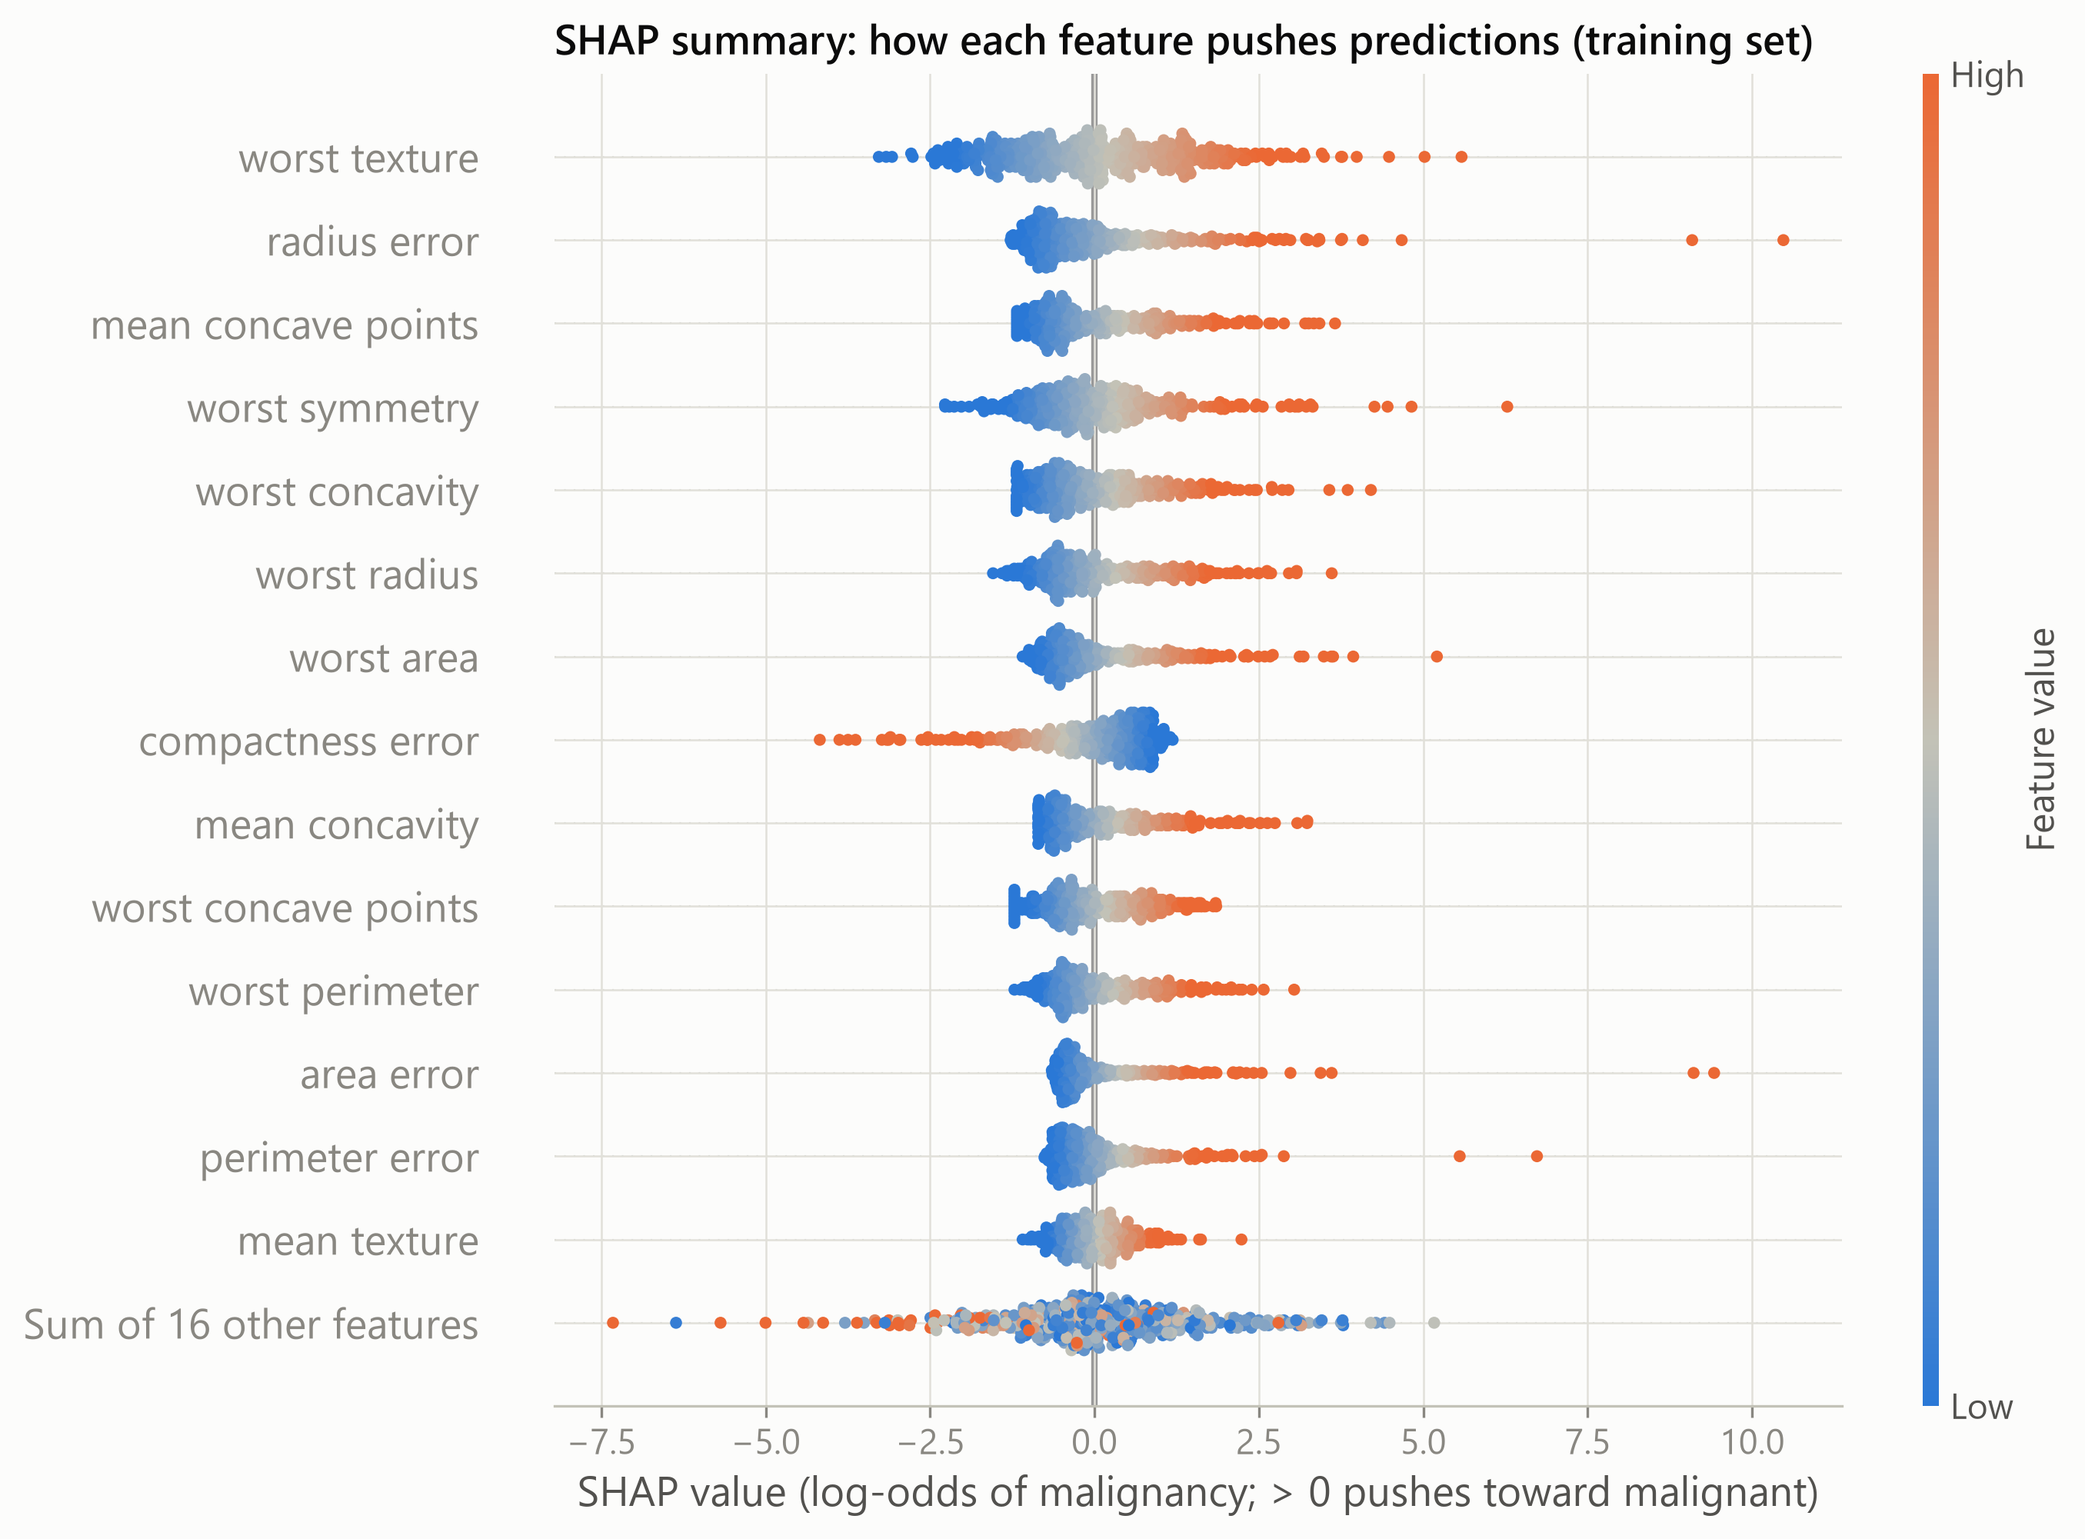
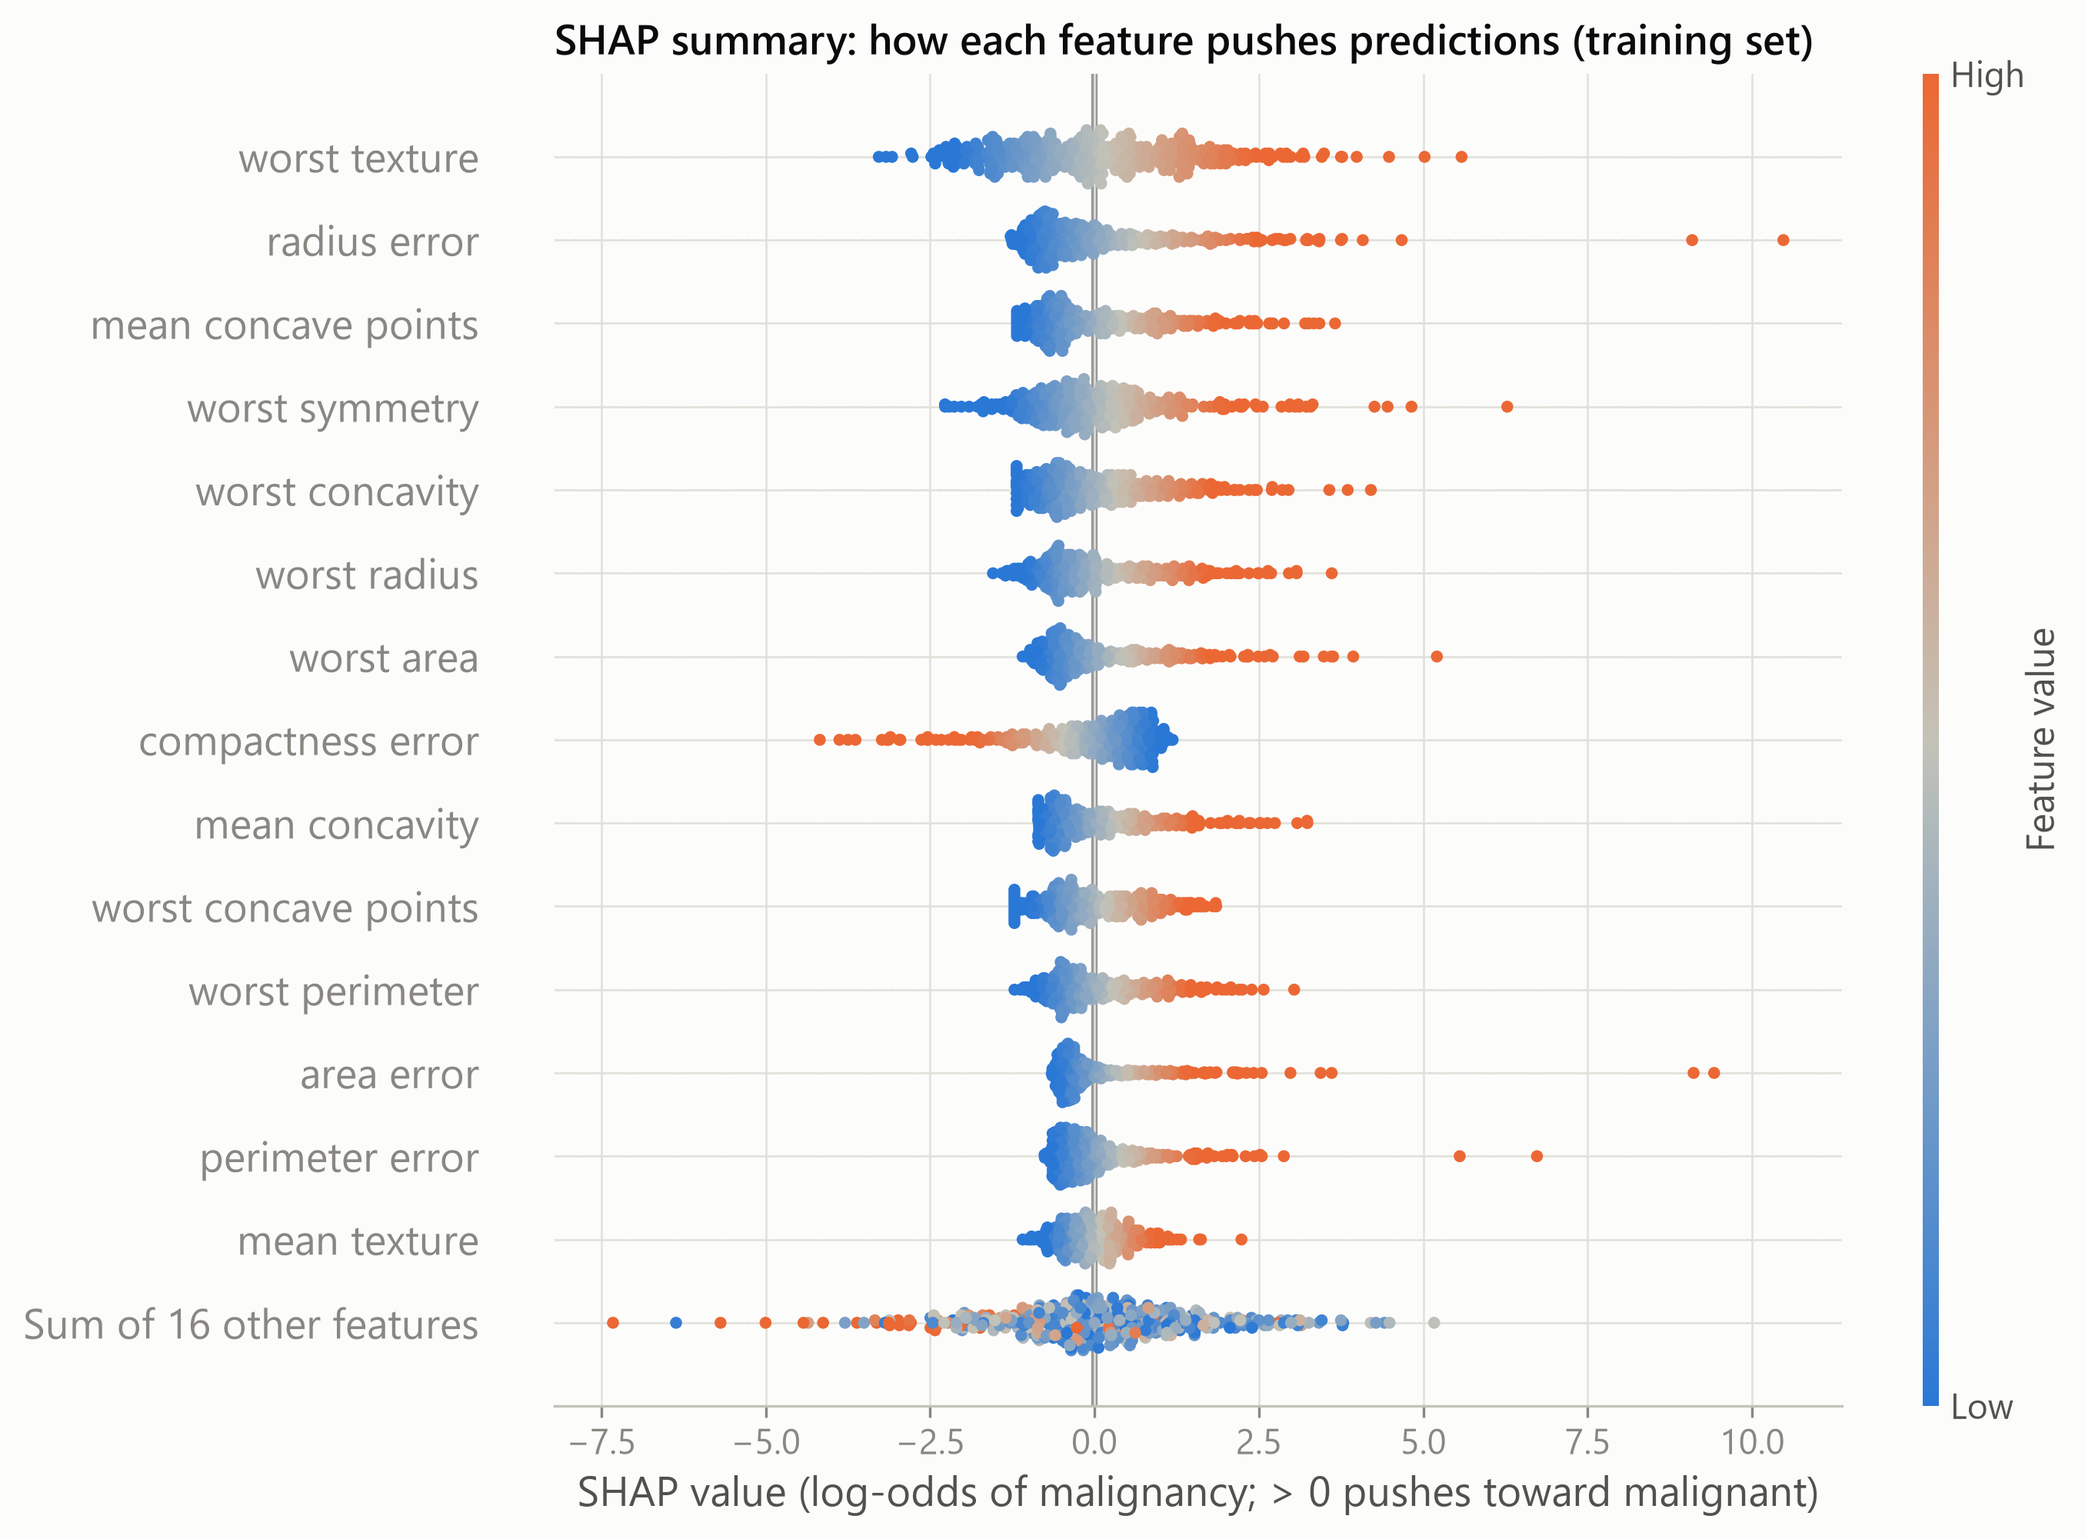
Phase 6: pytest suite (37 tests), run_all.py with --clean/--tests, deterministic figures

Changed region(s): [[0.4338, 0.8366, 0.6507, 0.8986]]

diff --git a/run_all.py b/run_all.py
@@ -1,0 +1,68 @@
+"""Reproduce every result, figure, and model in this project from scratch.
+
+Usage:
+    python run_all.py            # re-run all steps (reuses the cached data CSVs)
+    python run_all.py --clean    # delete generated data/results/figures/models first
+    python run_all.py --tests    # also run the pytest suite at the end
+"""
+
+from __future__ import annotations
+
+import argparse
+import runpy
+import shutil
+import subprocess
+import sys
+import time
+from pathlib import Path
+
+ROOT = Path(__file__).resolve().parent
+sys.path.insert(0, str(ROOT / "src"))  # lets run_all.py work even before `pip install -e .`
+
+from oncolens import config  # noqa: E402
+
+STEPS: list[tuple[str, str]] = [
+    ("01_data.py", "Load, validate, split data; EDA figures"),
+    ("02_baseline.py", "Logistic regression baseline"),
+    ("03_model_selection.py", "Model comparison, nested CV, tuning"),
+    ("04_calibration_threshold.py", "Calibration check and threshold selection"),
+    ("05_final_test.py", "One-time held-out test evaluation"),
+    ("06_explain_errors.py", "SHAP explanations and error analysis"),
+    ("07_figures.py", "Evaluation, SHAP and error figures"),
+]
+
+
+def clean_outputs() -> None:
+    """Remove everything the pipeline generates (never touches code, docs, or captions)."""
+    for pattern_dir, pattern in ((config.DATA_DIR, "*.csv"), (config.RESULTS_DIR, "*.*"),
+                                 (config.FIGURES_DIR, "*.png")):
+        for path in pattern_dir.glob(pattern):
+            path.unlink()
+    shutil.rmtree(config.MODELS_DIR, ignore_errors=True)
+
+
+def main() -> None:
+    """Run each pipeline step in order and report timings."""
+    parser = argparse.ArgumentParser(description=__doc__, formatter_class=argparse.RawDescriptionHelpFormatter)
+    parser.add_argument("--clean", action="store_true", help="delete generated outputs first")
+    parser.add_argument("--tests", action="store_true", help="run pytest after the pipeline")
+    args = parser.parse_args()
+
+    if args.clean:
+        clean_outputs()
+        print("Cleaned data/, results/, figures/*.png and models/.")
+    config.ensure_dirs()
+    total = time.time()
+    for script, description in STEPS:
+        start = time.time()
+        print(f"\n=== {script}: {description} ===", flush=True)
+        runpy.run_path(str(ROOT / "scripts" / script), run_name="__main__")
+        print(f"--- done in {time.time() - start:.1f}s", flush=True)
+    print(f"\nPipeline finished in {time.time() - total:.0f}s. Results in results/, figures in figures/.")
+
+    if args.tests:
+        sys.exit(subprocess.call([sys.executable, "-m", "pytest", "-q"], cwd=ROOT))
+
+
+if __name__ == "__main__":
+    main()

diff --git a/tests/test_explain_errors.py b/tests/test_explain_errors.py
@@ -1,0 +1,60 @@
+"""Tests for SHAP explanations and error-analysis helpers."""
+
+from __future__ import annotations
+
+import numpy as np
+import pandas as pd
+import pytest
+
+from oncolens.errors import label_outcomes, misclassified_table, relative_position
+from oncolens.explain import build_explainer, explain_rows, global_importance, sigmoid, top_contributions
+from oncolens.models import make_pipeline
+
+
+@pytest.fixture(scope="module")
+def fitted_lr(train_xy):
+    X, y = train_xy
+    return make_pipeline("logistic_regression").fit(X, y)
+
+
+def test_shap_values_add_up_to_model_probability(fitted_lr, train_xy) -> None:
+    X, _ = train_xy
+    expl = explain_rows(build_explainer(fitted_lr, X), X.head(20))
+    reconstructed = sigmoid(expl.values.sum(axis=1) + expl.base_values)
+    np.testing.assert_allclose(reconstructed, fitted_lr.predict_proba(X.head(20))[:, 1], atol=1e-8)
+
+
+def test_explanation_reports_raw_feature_values(fitted_lr, train_xy) -> None:
+    X, _ = train_xy
+    expl = explain_rows(build_explainer(fitted_lr, X), X.head(3))
+    np.testing.assert_allclose(expl.data, X.head(3).to_numpy())
+
+
+def test_global_importance_sorted_and_complete(fitted_lr, train_xy) -> None:
+    X, _ = train_xy
+    imp = global_importance(explain_rows(build_explainer(fitted_lr, X), X.head(50)))
+    assert len(imp) == X.shape[1]
+    assert imp["mean_abs_shap"].is_monotonic_decreasing
+
+
+def test_top_contributions_largest_first(fitted_lr, train_xy) -> None:
+    X, _ = train_xy
+    top = top_contributions(explain_rows(build_explainer(fitted_lr, X), X.head(1)), row=0, k=4)
+    assert len(top) == 4 and top["shap"].abs().is_monotonic_decreasing
+
+
+def test_label_outcomes() -> None:
+    out = label_outcomes(np.array([1, 1, 0, 0]), np.array([0.9, 0.1, 0.9, 0.1]), 0.5)
+    assert out.tolist() == ["TP", "FN", "FP", "TN"]
+
+
+def test_misclassified_table_keeps_only_errors() -> None:
+    X = pd.DataFrame({"a": [1.0, 2.0, 3.0, 4.0]})
+    table = misclassified_table(X, pd.Series([1, 1, 0, 0]), np.array([0.9, 0.1, 0.9, 0.1]), 0.5, "t")
+    assert sorted(table["outcome"]) == ["FN", "FP"]
+
+
+def test_relative_position_scale() -> None:
+    profile = pd.DataFrame({"TN": [0.0], "FP": [2.5], "FN": [7.5], "TP": [10.0]}, index=["f"])
+    pos = relative_position(profile)
+    assert pos.loc["f", "FP"] == pytest.approx(0.25) and pos.loc["f", "FN"] == pytest.approx(0.75)

diff --git a/tests/test_metrics_threshold_calibration.py b/tests/test_metrics_threshold_calibration.py
@@ -1,0 +1,56 @@
+"""Tests for metrics, threshold selection, and calibration helpers."""
+
+from __future__ import annotations
+
+import numpy as np
+import pandas as pd
+import pytest
+
+from oncolens.calibration import calibration_summary, expected_calibration_error
+from oncolens.metrics import classification_metrics, summarize_cv
+from oncolens.threshold import choose_threshold, threshold_sweep
+
+Y = np.array([0, 0, 0, 1, 1, 1])
+P = np.array([0.1, 0.3, 0.6, 0.4, 0.8, 0.9])
+
+
+def test_classification_metrics_counts_and_rates() -> None:
+    m = classification_metrics(Y, P, threshold=0.5)
+    assert (m["tp"], m["fp"], m["tn"], m["fn"]) == (2, 1, 2, 1)
+    assert m["recall"] == pytest.approx(2 / 3)
+    assert m["specificity"] == pytest.approx(2 / 3)
+
+
+def test_lower_threshold_never_lowers_recall() -> None:
+    assert classification_metrics(Y, P, 0.35)["recall"] >= classification_metrics(Y, P, 0.5)["recall"]
+
+
+def test_summarize_cv_flips_negated_brier() -> None:
+    fake = {f"test_{m}": np.array([0.9, 1.0]) for m in
+            ("accuracy", "precision", "recall", "f1", "roc_auc", "average_precision")}
+    fake["test_brier"] = np.array([-0.02, -0.04])
+    assert summarize_cv(fake)["brier_mean"] == pytest.approx(0.03)
+
+
+def test_choose_threshold_picks_highest_meeting_target() -> None:
+    sweep = threshold_sweep(Y, P, grid=np.array([0.2, 0.35, 0.5, 0.7]))
+    # recall is 1.0 at 0.2 and 0.35 but 2/3 at 0.5, so the highest threshold meeting 1.0 is 0.35
+    assert choose_threshold(sweep, target_recall=1.0) == 0.35
+
+
+def test_choose_threshold_falls_back_to_lowest() -> None:
+    sweep = pd.DataFrame({"threshold": [0.3, 0.6], "recall": [0.5, 0.4]})
+    assert choose_threshold(sweep, target_recall=0.99) == 0.3
+
+
+def test_ece_zero_when_frequencies_match() -> None:
+    y = np.array([0, 1, 0, 1])
+    p = np.full(4, 0.5)
+    assert expected_calibration_error(y, p) == pytest.approx(0.0)
+
+
+def test_ece_large_when_confidently_wrong() -> None:
+    y = np.array([0, 0, 1, 1])
+    p = np.array([0.95, 0.95, 0.05, 0.05])
+    assert expected_calibration_error(y, p) > 0.9
+    assert calibration_summary(y, p)["brier"] > 0.8

diff --git a/tests/test_data.py b/tests/test_data.py
@@ -1,0 +1,54 @@
+"""Tests for loading, validating, and splitting the data."""
+
+from __future__ import annotations
+
+import numpy as np
+import pandas as pd
+
+from oncolens import config
+from oncolens.data import (
+    feature_columns,
+    load_splits,
+    make_train_test_split,
+    summary_table,
+    validate_dataframe,
+)
+
+
+def test_target_is_flipped_so_malignant_is_one(raw_df: pd.DataFrame) -> None:
+    assert raw_df.shape == (569, 31)
+    assert int(raw_df[config.TARGET_COL].sum()) == 212  # 212 malignant in the original dataset
+
+
+def test_clean_data_passes_validation(raw_df: pd.DataFrame) -> None:
+    assert validate_dataframe(raw_df) == []
+
+
+def test_validation_catches_missing_and_negative_values(raw_df: pd.DataFrame) -> None:
+    broken = raw_df.copy()
+    broken.iloc[0, 0] = np.nan
+    broken.iloc[1, 1] = -5.0
+    problems = " ".join(validate_dataframe(broken))
+    assert "missing" in problems and "negative" in problems
+
+
+def test_split_is_disjoint_stratified_and_reproducible(raw_df: pd.DataFrame) -> None:
+    train, test = make_train_test_split(raw_df)
+    assert len(train) + len(test) == len(raw_df)
+    assert len(pd.merge(train, test, how="inner")) == 0  # no row appears in both
+    assert abs(train[config.TARGET_COL].mean() - test[config.TARGET_COL].mean()) < 0.01
+    train_again, _ = make_train_test_split(raw_df)
+    pd.testing.assert_frame_equal(train, train_again)
+
+
+def test_cached_split_matches_fresh_split(raw_df: pd.DataFrame) -> None:
+    cached_train, cached_test = load_splits()
+    fresh_train, fresh_test = make_train_test_split(raw_df)
+    np.testing.assert_allclose(cached_train.to_numpy(), fresh_train.to_numpy())
+    np.testing.assert_allclose(cached_test.to_numpy(), fresh_test.to_numpy())
+
+
+def test_summary_table_has_one_row_per_feature(raw_df: pd.DataFrame) -> None:
+    table = summary_table(raw_df)
+    assert list(table.index) == feature_columns(raw_df)
+    assert {"mean_benign", "mean_malignant", "malignant_to_benign_ratio"} <= set(table.columns)

diff --git a/tests/test_app.py b/tests/test_app.py
@@ -1,0 +1,63 @@
+"""Tests for the app helpers and a headless run of the Streamlit app."""
+
+from __future__ import annotations
+
+from pathlib import Path
+
+import pandas as pd
+import pytest
+
+from oncolens.app_support import (
+    Prediction,
+    feature_group,
+    format_probability,
+    load_or_train_model,
+    predict,
+    presets,
+    slider_ranges,
+)
+
+APP = Path(__file__).resolve().parents[1] / "app.py"
+
+
+def test_prediction_label_and_confidence() -> None:
+    assert Prediction(0.3, threshold=0.2).label == "Malignant"
+    assert Prediction(0.1, threshold=0.2).confidence == pytest.approx(0.9)
+
+
+def test_format_probability_never_claims_certainty() -> None:
+    assert format_probability(0.99999) == "> 99.9%"
+    assert format_probability(0.00001) == "< 0.1%"
+    assert format_probability(0.5) == "50.0%"
+
+
+def test_feature_groups() -> None:
+    assert feature_group("mean radius") == "mean"
+    assert feature_group("worst area") == "worst"
+    assert feature_group("radius error") == "error"
+
+
+def test_presets_lie_within_slider_ranges(train_xy) -> None:
+    X, y = train_xy
+    ranges = slider_ranges(X)
+    for values in presets(X, y).values():
+        assert ((values >= ranges["min"]) & (values <= ranges["max"])).all()
+
+
+def test_typical_malignant_preset_is_predicted_malignant(train_xy) -> None:
+    X, y = train_xy
+    model = load_or_train_model()
+    row = pd.DataFrame([presets(X, y)["Typical malignant (median of malignant)"]])
+    assert predict(model, row, threshold=0.2).is_malignant
+
+
+def test_app_runs_without_exceptions() -> None:
+    from streamlit.testing.v1 import AppTest
+
+    at = AppTest.from_file(str(APP), default_timeout=180).run()
+    assert not at.exception
+    assert len(at.slider) == 30
+    assert at.metric[0].value in ("Benign", "Malignant")
+    texture = at.slider(key="worst texture")
+    texture.set_value(float(texture.max)).run()
+    assert not at.exception

diff --git a/tests/test_models_selection.py b/tests/test_models_selection.py
@@ -1,0 +1,44 @@
+"""Tests for pipelines, grids, and the model-selection rule."""
+
+from __future__ import annotations
+
+import pandas as pd
+import pytest
+from sklearn.preprocessing import StandardScaler
+
+from oncolens.models import MODEL_NAMES, make_pipeline, param_grid
+from oncolens.selection import SIMPLICITY_MARGIN, choose_model
+
+
+@pytest.mark.parametrize("name", MODEL_NAMES)
+def test_every_pipeline_scales_inside_the_pipeline(name: str) -> None:
+    pipe = make_pipeline(name)
+    assert isinstance(pipe.steps[0][1], StandardScaler)  # so the scaler is re-fit in each CV fold
+
+
+@pytest.mark.parametrize("name", MODEL_NAMES)
+def test_grid_keys_are_valid_pipeline_params(name: str) -> None:
+    pipe = make_pipeline(name)
+    first_values = {key: values[0] for key, values in param_grid(name).items()}
+    pipe.set_params(**first_values)  # raises ValueError on an invalid key
+
+
+def test_unknown_model_raises() -> None:
+    with pytest.raises(ValueError):
+        make_pipeline("deep_magic")
+
+
+def _nested(scores: dict[str, float]) -> pd.DataFrame:
+    return pd.DataFrame({"roc_auc_mean": scores})
+
+
+def test_choose_model_prefers_lr_within_margin() -> None:
+    chosen, _ = choose_model(_nested({"logistic_regression": 0.990, "svm": 0.990 + SIMPLICITY_MARGIN / 2,
+                                      "random_forest": 0.98, "gradient_boosting": 0.98}))
+    assert chosen == "logistic_regression"
+
+
+def test_choose_model_takes_clear_winner() -> None:
+    chosen, _ = choose_model(_nested({"logistic_regression": 0.95, "svm": 0.99,
+                                      "random_forest": 0.98, "gradient_boosting": 0.97}))
+    assert chosen == "svm"

diff --git a/src/oncolens/plots_shap.py b/src/oncolens/plots_shap.py
@@ -8,6 +8,7 @@ import pandas as pd
 import shap
 from matplotlib.colors import LinearSegmentedColormap
 
+from oncolens.config import RANDOM_STATE
 from oncolens.explain import sigmoid
 from oncolens.style import BENIGN_COLOR, INK_MUTED, INK_SECONDARY, MALIGNANT_COLOR, SERIES, SURFACE
 
@@ -30,6 +31,7 @@ def plot_global_importance(importance: pd.DataFrame, unit: str, top_k: int = 15)
 
 def plot_beeswarm(explanation: shap.Explanation, max_display: int = 15) -> plt.Figure:
     """SHAP beeswarm: each dot is one patient; x = contribution, color = feature value."""
+    np.random.seed(RANDOM_STATE)  # shap jitters overlapping dots with numpy global randomness
     shap.plots.beeswarm(explanation, max_display=max_display, show=False, color=VALUE_CMAP,
                         axis_color=INK_MUTED, s=14, plot_size=(9, 0.4 * max_display + 1.5))
     fig = plt.gcf()

diff --git a/tests/conftest.py b/tests/conftest.py
@@ -1,0 +1,21 @@
+"""Shared fixtures: the real (small) dataset and its cached train/test split."""
+
+from __future__ import annotations
+
+import pandas as pd
+import pytest
+
+from oncolens.data import load_raw_dataframe, load_splits, split_features_target
+
+
+@pytest.fixture(scope="session")
+def raw_df() -> pd.DataFrame:
+    """Full 569-row dataset with the malignant = 1 target."""
+    return load_raw_dataframe()
+
+
+@pytest.fixture(scope="session")
+def train_xy() -> tuple[pd.DataFrame, pd.Series]:
+    """Features and labels of the training split."""
+    train, _ = load_splits()
+    return split_features_target(train)
